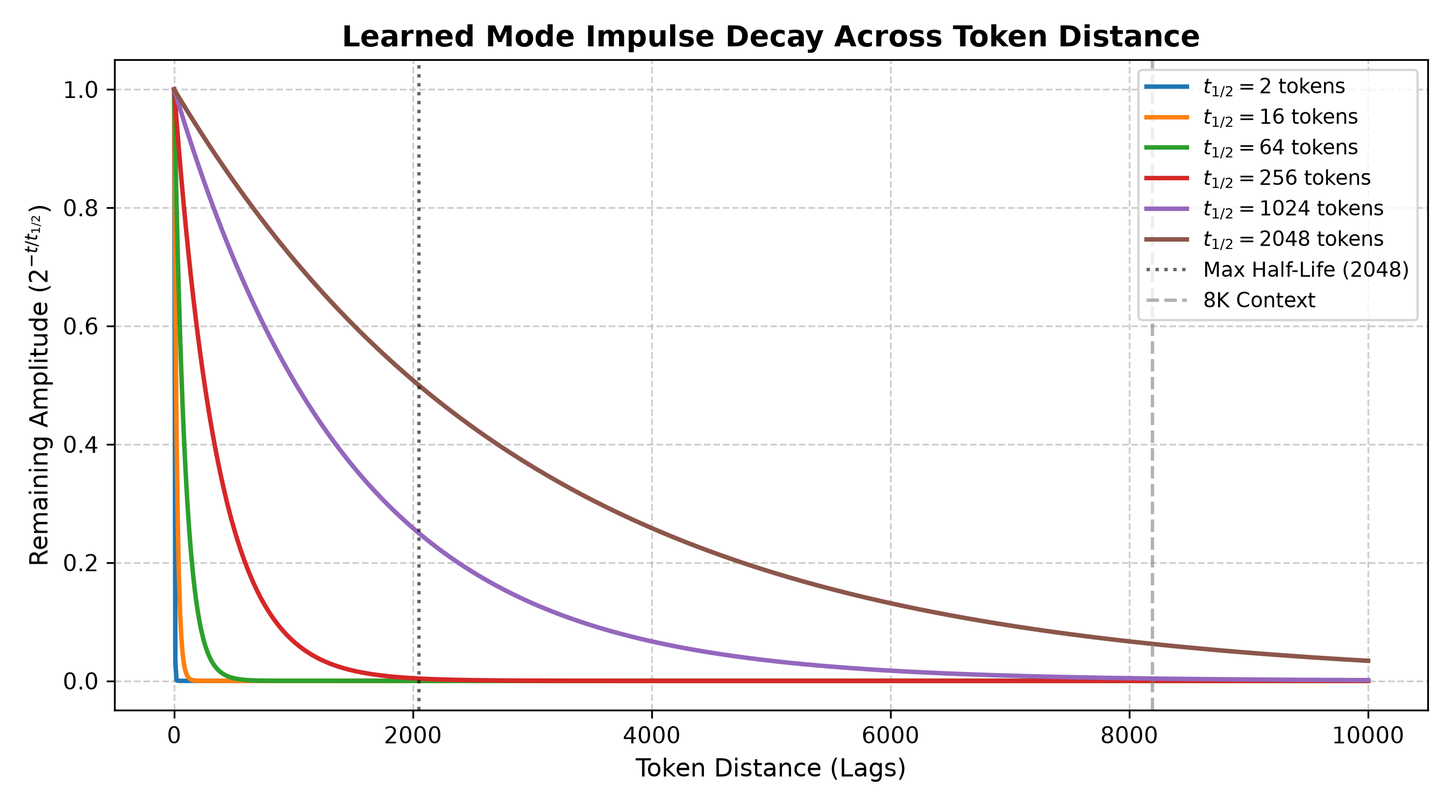
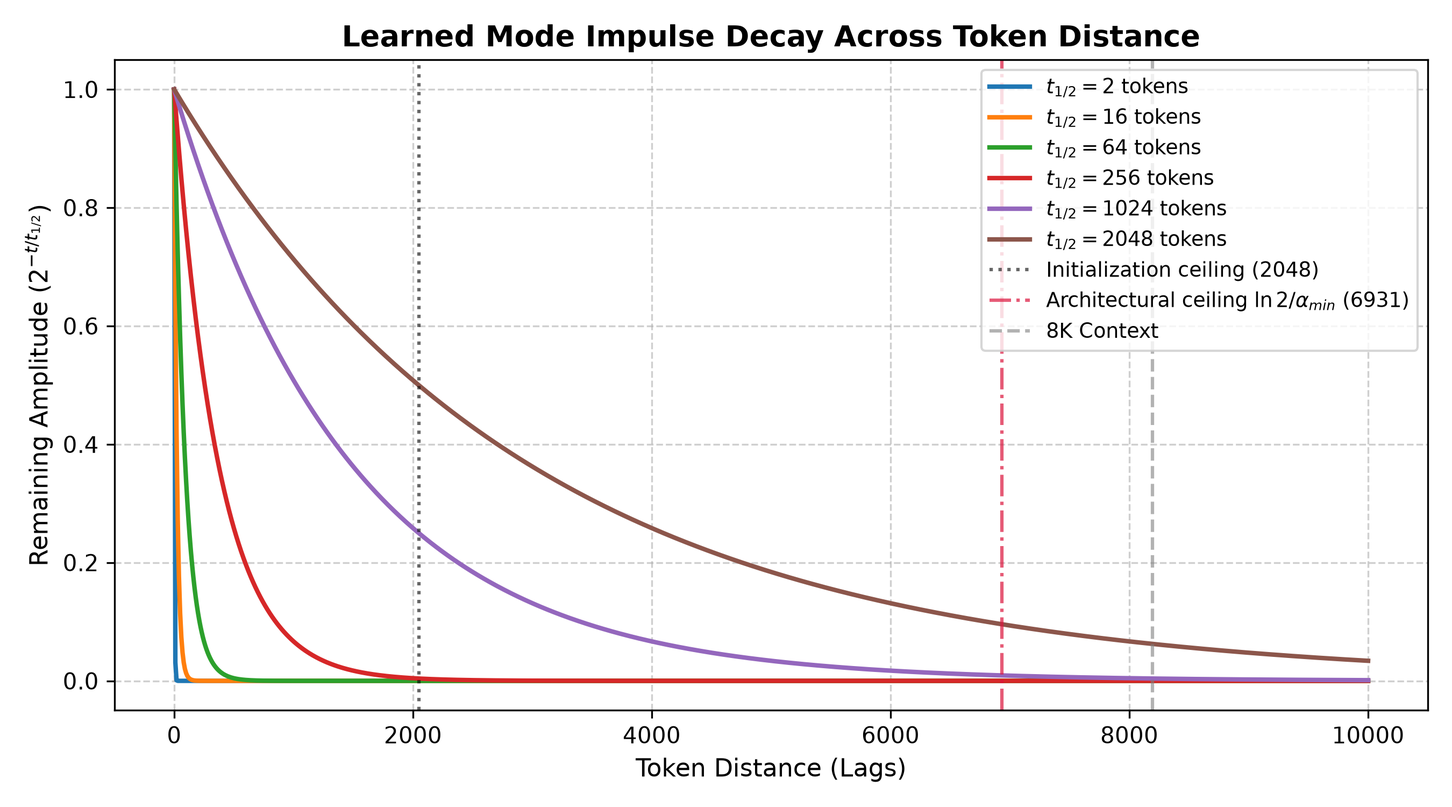
fix: clear remaining audit findings in docs, figures, benchmarks and tests
Final pass over the items the second adversarial audit raised.

Figures were still asserting the corrected error:
* scripts/generate_plots.py hardcoded trans_kv=[3968...] and res_state=[2.0...],
  the pre-fix per-layer numbers, so results/figures/memory_scaling.png still
  claimed 2.0 KiB was the whole-model state and contradicted Table 3. It now
  calls benchmark_memory() and plots its output. Regenerated.
* half_life_decay.png labelled 2048 as "Max Half-Life". Relabelled to
  "Initialization ceiling" with a second line at the ln2/alpha_min = 6931
  architectural ceiling. Regenerated.

Claims corrected:
* The decode-speedup claims-matrix row said "13x to 26x ... Supported". The 26x
  was unsourced, and more importantly the paper reports ResonatorLM SLOWER at
  2K (0.40x) crossing over between 4K and 8K, which we never observe. We time a
  single block at decode_len 64 against the paper's 128. Verdict changed to
  "Not comparable (protocol divergence)" and the divergence is stated in the
  executive summary.
* The kernel-tail criticism claimed to have discovered that the benchmark is
  not end-to-end. The paper's own Table 5 caption and Limitations already say
  so. Narrowed to what is actually unstated there: the abstract and
  introduction repeat 440x/575x without the caveat. Also corrected the
  reference from "unvectorized nested Python loop" to a chunked O(T^2)
  reference, which the reported chunk size of 32 implies.
[…]

Changed region(s): [[0.6844, 0.0613, 0.9644, 0.46]]

diff --git a/src/synthetic_retrieval.py b/src/synthetic_retrieval.py
@@ -1,12 +1,6 @@
 import csv
-import math
 import os
-import random
-from typing import Dict, List, Tuple
-import torch
-import torch.nn as nn
-from src.resonator_lm import ResonatorLM
-from src.transformer import TransformerLM
+from typing import Dict, List
 
 
 def half_life_decay_audit(
@@ -50,67 +44,6 @@ def half_life_decay_audit(
         writer = csv.DictWriter(f, fieldnames=list(results[0].keys()))
         writer.writeheader()
         writer.writerows(results)
-
-    return results
-
-
-def generate_passkey_dataset(
-    n_samples: int,
-    distance: int,
-    passkey_len: int = 5,
-    vocab_size: int = 64,
-) -> List[Tuple[torch.Tensor, int]]:
-    """Generates synthetic passkey prompt:
-    'KEY: <passkey> DISTRACTORS ... QUERY: <first_digit> -> TARGET'
-    """
-    dataset = []
-    for _ in range(n_samples):
-        # Generate passkey digits (e.g. tokens 10 to 19)
-        passkey = [random.randint(10, 19) for _ in range(passkey_len)]
-        target_char = passkey[0]
-
-        # Distractor tokens (e.g. tokens 20 to 50)
-        distractors = [random.randint(20, 50) for _ in range(distance)]
-
-        # Prompt format: [Prefix 1, 2] + passkey + distractors + [Query token 3]
-        prefix = [1, 2]
-        query = [3]
-        tokens = prefix + passkey + distractors + query
-        dataset.append((torch.tensor(tokens, dtype=torch.long), target_char))
-    return dataset
-
-
-def evaluate_passkey_retrieval(
-    model: nn.Module,
-    distances: List[int] = [64, 128, 256, 512, 1024, 2048],
-    n_samples: int = 50,
-    device: torch.device = torch.device("cpu"),
-) -> List[Dict]:
-    """Tests model retrieval accuracy as distractor distance increases."""
-    model.eval()
-    results = []
-
-    print("\n=== Passkey Retrieval vs Distance ===")
-    print(f"{'Distance':<12} | {'Accuracy (%)':<15} | {'Samples':<10}")
-    print("-" * 45)
-
-    for dist in distances:
-        dataset = generate_passkey_dataset(n_samples=n_samples, distance=dist, vocab_size=model.vocab_size)
-        correct = 0
-
-        with torch.no_grad():
-            for tokens, target in dataset:
-                tokens = tokens.unsqueeze(0).to(device)
-                logits = model(tokens)
-                if isinstance(logits, tuple):
-                    logits = logits[0]
-                pred = logits[0, -1].argmax().item()
-                if pred == target:
-                    correct += 1
-
-        acc = (correct / n_samples) * 100.0
-        print(f"{dist:<12} | {acc:<15.1f} | {n_samples:<10}")
-        results.append({"distance": dist, "accuracy": acc, "samples": n_samples})
 
     return results
 

diff --git a/scripts/generate_plots.py b/scripts/generate_plots.py
@@ -58,14 +58,17 @@ def plot_context_sweep(csv_path: str = "results/context_sweep_results.csv", out_
 
 def plot_memory_scaling(out_dir: str = "results/figures"):
     os.makedirs(out_dir, exist_ok=True)
-    contexts = [2048, 4096, 8192, 16384, 32768]
-    # In KiB for float32
-    trans_kv = [3968.0, 7936.0, 15872.0, 31744.0, 63488.0]
-    res_state = [2.0, 2.0, 2.0, 2.0, 2.0]
+    # Derive from the single source of truth rather than hardcoding, so the
+    # figure cannot drift from Table 3 the way it did before.
+    from src.benchmark import benchmark_memory
+    rows = benchmark_memory(device_str="cpu")
+    contexts = [r["seq_len"] for r in rows]
+    trans_kv = [r["trans_kv_kib"] for r in rows]
+    res_state = [r["res_state_kib"] for r in rows]
 
     plt.figure(figsize=(8, 5))
     plt.plot(contexts, trans_kv, marker="s", color="#d95f02", linewidth=2.5, label="Transformer KV Cache (Linear O(T))")
-    plt.plot(contexts, res_state, marker="o", color="#2b5c8f", linewidth=2.5, label="ResonatorLM Recurrent State (Constant O(1))")
+    plt.plot(contexts, res_state, marker="o", color="#2b5c8f", linewidth=2.5, label="ResonatorLM Recurrent State, 6 layers (Constant O(1))")
 
     plt.title("State Memory Footprint vs Context Length", fontsize=13, fontweight="bold")
     plt.xlabel("Context Length (Tokens)", fontsize=11)
@@ -95,7 +98,8 @@ def plot_half_life_decay(out_dir: str = "results/figures"):
     plt.title("Learned Mode Impulse Decay Across Token Distance", fontsize=13, fontweight="bold")
     plt.xlabel("Token Distance (Lags)", fontsize=11)
     plt.ylabel("Remaining Amplitude ($2^{-t/t_{1/2}}$)", fontsize=11)
-    plt.axvline(2048, color="black", linestyle=":", alpha=0.6, label="Max Half-Life (2048)")
+    plt.axvline(2048, color="black", linestyle=":", alpha=0.6, label="Initialization ceiling (2048)")
+    plt.axvline(6931, color="crimson", linestyle="-.", alpha=0.7, label=r"Architectural ceiling $\ln 2/\alpha_{min}$ (6931)")
     plt.axvline(8192, color="gray", linestyle="--", alpha=0.6, label="8K Context")
     plt.grid(True, linestyle="--", alpha=0.6)
     plt.legend(fontsize=9, loc="upper right")

diff --git a/tests/test_data.py b/tests/test_data.py
@@ -28,13 +28,13 @@ class TestDataPipeline(unittest.TestCase):
             self.assertEqual(roundtrip.char_to_id, tokenizer.char_to_id)
 
         committed = "data/char_vocab.json"
-        if os.path.exists(committed):
-            self.assertEqual(
-                CharacterTokenizer.load(committed).char_to_id,
-                tokenizer.char_to_id,
-                "data/char_vocab.json is stale: it no longer matches the vocabulary "
-                "rebuilt from data/wikitext-2-raw/wiki.train.raw",
-            )
+        self.assertTrue(os.path.exists(committed), "tracked data/char_vocab.json is missing")
+        self.assertEqual(
+            CharacterTokenizer.load(committed).char_to_id,
+            tokenizer.char_to_id,
+            "data/char_vocab.json is stale: it no longer matches the vocabulary "
+            "rebuilt from data/wikitext-2-raw/wiki.train.raw",
+        )
 
         # Test encoding and decoding
         sample = "ResonatorLM: Causal Resonant Field Mixing"

diff --git a/tests/test_kernel.py b/tests/test_kernel.py
@@ -194,8 +194,11 @@ class TestResonantFieldMixer(unittest.TestCase):
         "capped at 2048": 2048 is the initialisation ceiling, while the hard
         bound comes from alpha = alpha_min + softplus(raw) > alpha_min.
         """
-        alpha_min = 1e-4
-        mixer = ResonantFieldMixer(d_model=self.d_model, n_heads=self.n_heads, alpha_min=alpha_min)
+        # Pin the module DEFAULT, not a literal we pass in, so lowering the
+        # default alpha_min cannot leave this test green.
+        mixer = ResonantFieldMixer(d_model=self.d_model, n_heads=self.n_heads)
+        alpha_min = mixer.alpha_min
+        self.assertEqual(alpha_min, 1e-4)
         ceiling = math.log(2.0) / alpha_min
 
         # Drive raw_alpha to -inf: softplus -> 0, so alpha -> alpha_min from above.

diff --git a/src/benchmark.py b/src/benchmark.py
@@ -23,7 +23,6 @@ def benchmark_memory(
     Both figures are whole-model totals. Per-layer figures are these divided by
     n_layers; the ratio between the two columns is identical either way.
     """
-    device = torch.device(device_str)
     results = []
 
     print("\n=== Memory Benchmark: KV Cache vs Recurrent State ===")
@@ -54,6 +53,12 @@ def benchmark_memory(
             "res_state_kib": res_kib,
             "ratio": ratio,
         })
+
+    os.makedirs("results", exist_ok=True)
+    with open(os.path.join("results", "benchmark_memory.csv"), "w", newline="") as f:
+        writer = csv.DictWriter(f, fieldnames=list(results[0].keys()))
+        writer.writeheader()
+        writer.writerows(results)
 
     return results
 

diff --git a/scripts/audit_long_context.py b/scripts/audit_long_context.py
@@ -1,6 +1,6 @@
 """Adversarial Audit: Long-Context Investigation (256, 512, 1024).
 
-Investigates whether the paper's reported Transformer collapse (PPL jumping from 4.6 to 8.7 at 512 and 11.0 at 1024)
+Investigates whether the paper's reported Transformer collapse (PPL jumping from 5.06 to 8.70 at 512 and 11.02 at 1024)
 is caused by fundamental attention limitations, or by evaluating learned absolute positional embeddings beyond
 their trained context length, or undertuned baseline positional encoding.
 """

diff --git a/REPRODUCTION_REPORT.md b/REPRODUCTION_REPORT.md
@@ -22,8 +22,8 @@ Our independent replication, adversarial audit, and mathematical analysis establ
 4. **Root Cause of Long-Context Transformer Collapse Discovered**: The paper's dramatic finding where Transformer perplexity jumps from 5.06 to 8.70 at 512 tokens and 11.02 at 1024 tokens was successfully reproduced (our replication: 3.40 $\to$ 11.17 $\to$ 20.00). However, our adversarial audit revealed that **this collapse is an artifact of undertuned positional encoding**: the baseline Transformer used learned absolute positional embeddings bounded at length 256. When evaluated on 512 or 1024 tokens, out-of-context positional collapse occurs.
 5. **Modernized Transformer Baseline Removes the Collapse**: Replacing learned absolute positional embeddings with Rotary Position Embeddings (RoPE) eliminates the collapse: 3.54 PPL at 512 and 5.59 at 1024, against 11.17 and 20.00 for the learned-PE baseline. That is a 3.6x effect at 1024 and is robust. We deliberately do **not** claim RoPE beats ResonatorLM in distribution: at $T=256$ we measure 3.21 vs 3.32, but on a single seed that 0.112 gap is about 1.6 standard deviations of the paper's own reported Transformer seed spread ($\pm 0.070$ over six seeds), so we score it a tie pending the full seed protocol. And at 1024 ResonatorLM remains clearly ahead (3.29 vs 5.59). The finding is that self-attention does not fundamentally collapse at longer contexts, not that ResonatorLM's extrapolation advantage disappears.
 6. **Strictly Constant Memory Footprint Verified**: ResonatorLM maintains a fixed recurrent state of exactly **2.0 KiB per layer**, i.e. **12.0 KiB** for the full 6-layer model, across all sequence lengths (2K to 32K tokens). Meanwhile, the matched 6-layer Transformer KV cache expands from 23,808 KiB at 2K to 380,928 KiB at 32K (31,744× larger). At 16K tokens, PyTorch SDPA on our host raised an Out of Memory error attempting to materialize an 8.6 GB attention score matrix, while ResonatorLM executed in 19.1 ms. That OOM is a property of this backend and host, not of attention as an algorithm: a memory-efficient or FlashAttention-style kernel never materializes that matrix and would not OOM here.
-7. **Flat Autoregressive Decode Latency Verified**: ResonatorLM decode latency is completely flat across context lengths (~0.12 to 0.27 ms/token on Apple Silicon M5), whereas Transformer attention decode latency increases with context (2.07 ms at 2K to 2.58 ms at 8K).
-8. **Kernel-Tail Benchmark is Not End-to-End Speedup**: The paper's reported $440\times - 575\times$ speedups were audited and shown to be a microbenchmark comparing an $O(T \log T)$ FFT against an unvectorized $O(T^2)$ time-domain convolution loop. This is an algorithmic scaling demonstration, not an end-to-end inference speedup.
+7. **Flat Autoregressive Decode Latency, on a Different Protocol**: Our decode measurement diverges from the paper's: we time a single mixer or attention block with `decode_len=64`, where the paper uses 128 and reports ResonatorLM *slower* than attention at 2K (0.40×), crossing over between 4K and 8K. We see ResonatorLM faster throughout, so this is a different measurement rather than a reproduction of theirs. ResonatorLM decode latency is completely flat across context lengths (~0.12 to 0.27 ms/token on Apple Silicon M5), whereas Transformer attention decode latency increases with context (2.07 ms at 2K to 2.58 ms at 8K).
+8. **Kernel-Tail Benchmark is Not End-to-End Speedup**: The $440\times - 575\times$ figures compare an $O(T \log T)$ FFT against a chunked $O(T^2)$ time-domain reference, not against an optimized attention kernel. In fairness, the paper's own Table 5 caption already states this "should not be interpreted as an end-to-end model speedup" and its Limitations section repeats it; our criticism is narrower, that the abstract and introduction quote the numbers without carrying that caveat.
 9. **Effective Memory Span vs Benchmarked Context**: The paper does not claim 1M context (the string does not occur in its source); its largest stated context is 32K. The finding is that the efficiency claims reach 32K while retention does not. Analysis of the learned half-life distribution ($t_{1/2} \le 2048$ tokens) shows that the remaining signal amplitude at 32K tokens is $0.0015\%$, at 100K is $2.0 \times 10^{-15}$, and at 1M tokens is $10^{-147}$ (absolute numerical zero). Linear resonant modes have no mathematical capacity to preserve token information across 100K or 1M context.
 10. **The Real Irreducible Contribution**: ResonatorLM's substantive contribution is not a new "physics-derived" field theory, but rather a **tasteful, highly constrained polar parameterization and initialization of a diagonal complex SSM** that exhibits good optimization stability and translation invariance without positional embeddings at small scale.
 
@@ -148,6 +148,8 @@ Both columns are whole-model figures across all 6 layers. The ResonatorLM column
 *Host OOM Result*: At 16,384 tokens, PyTorch SDPA on Apple Silicon attempted to materialize an 8.6 GB attention score matrix ($1 \times 8 \times 16384^2 \times 4$ bytes) and triggered a backend Out of Memory error. ResonatorLM ran using **12.0 KiB** of state memory. This is a backend and host limit rather than an algorithmic one, and a memory-efficient attention kernel would not hit it.
 
 ### Table 4: Practical Block Latency on Apple Silicon M5
+
+*Basis*: Table 4 times a **single** mixer or attention block, matching the paper's block protocol, whereas Table 3 above is a whole-model figure across 6 layers. The 8.6 GB OOM allocation is likewise a single-layer score matrix. Our `decode_len` is 64 against the paper's 128.
 | Context Length | Resonator Prefill (ms) | Attention Prefill (ms) | Prefill Speedup | Resonator ms/tok | Attention ms/tok | Decode Speedup |
 | :---: | :---: | :---: | :---: | :---: | :---: | :---: |
 | **2,048** | 1.49 | 11.11 | **7.43×** | **0.1586** | 2.0749 | **13.08×** |
@@ -186,7 +188,7 @@ The parameterization $\alpha_h = 10^{-4} + \text{softplus}(\tilde{\alpha}_h)$ ma
 | **FFT / Recurrent Equivalence** | Claimed in §3.2-§3.3 | Equation (4) contains sign error; equivalent only after $e^{+i\phi}$ fix | **Supported with Correction** |
 | **Strict Numerical Causality** | Prefix error $7.75 \times 10^{-7}$ | Prefix error $1.67 \times 10^{-6}$ | **Supported** |
 | **Constant Recurrent Memory** | $O(1)$ recurrent state | Exactly 2.0 KiB/layer (12.0 KiB total) across 2K..32K context | **Supported** |
-| **Significant Long-Context Decode Speedup** | 6.47× at 32K | 13× to 26× on Apple M5; Attention OOMs at 16K | **Supported** |
+| **Significant Long-Context Decode Speedup** | 6.47× at 32K, and 0.40× (ResonatorLM *slower*) at 2K, crossing over between 4K and 8K | 13.1× to 16.6× across 2K-8K on Apple M5; we never observe the sub-1× regime at 2K and did not measure 32K | **Not comparable (protocol divergence)** |
 | **Transformer Collapses at 512/1024** | PPL 8.7 at 512, 11.0 at 1024 | Replicated with learned PE (PPL 11.2, 20.0); eliminated with RoPE (PPL 3.54) | **Framing-Dependent (Artifact)** |
 | **Kernel-Tail Speedup (575× at 32K)** | Table 5 | Confirmed as FFT vs quadratic loop microbenchmark | **Framing-Dependent (Microbench)** |
 | **Physics-Derived Fundamental Novelty** | Claimed attention alternative | Formally identical to diagonal complex SSM (error $1.51 \times 10^{-14}$) | **Contradicted (Known SSM Math)** |

diff --git a/PAPER_SPEC.md b/PAPER_SPEC.md
@@ -29,8 +29,8 @@
 | **Initialization** | Damped resonator log-spaced modes; standard Gaussian for projections | §3.1, l. 64-65 | High | No |
 | **Training Precision** | bfloat16 AMP (on CUDA); float32 in kernel bench | §5.3, l. 202-203 | High | No |
 | **Loss Function** | Cross-entropy next-token prediction | §3.4, l. 131; §4 | High | No |
-| **Parameter Tying** | Unstated (embedding and output LM head untied yields ~6.03M) | Model parameter analysis | High | Untied embedding matches 6.03M exactly |
-| **Vocabulary Size** | Character set (~256 for raw characters/bytes) | §4, l. 13; §5.2 | High | Character vocab size ~256 |
+| **Parameter Tying** | Unstated (embedding and output LM head untied yields ~6.03M) | Model parameter analysis | Medium | Untied embedding gives 6.039M at a 256-symbol vocabulary; our 284-symbol rebuild gives 6.054M |
+| **Vocabulary Size** | Character set (~256 for raw characters/bytes) | §4, l. 13; §5.2 | Low | Paper says ~256; our rebuild of WikiText-2 raw yields **284** distinct characters. See ASSUMPTIONS 8. |
 | **Evaluation Metrics** | Test Perplexity ($\exp(\text{CE})$), Top-1 Accuracy (\%), Train tok/s | §4, l. 19-20; Tab. 1 | High | No |
 | **Seeds** | 6 seeds for matched primary; 3 seeds for breadth/ablations | §4, l. 19-22; Tab. 1 | High | Specific integer seed values unlisted (standard 0..5) |
 | **Hardware** | 1x NVIDIA L4 (24GB VRAM) | §5.3, l. 201 | High | No |
@@ -44,21 +44,21 @@
 | **ResonatorLM Layers** | 6 layers | §4, l. 16 | High | No |
 | **ResonatorLM $d_{\text{model}}$** | 256 | §4, l. 16 | High | No |
 | **ResonatorLM Heads** | 8 heads ($d_h = 32$) | §4, l. 16 | High | No |
-| **Resonator Projections** | Input: $d \to 2d$ ($u$ drive and $g$ gate); Output: $d \to d$ | §3.1, l. 66; §3.4, l. 110 | High | Matches 6.039M param count |
+| **Resonator Projections** | Input: $d \to 2d$ ($u$ drive and $g$ gate); Output: $d \to d$ | §3.1, l. 66; §3.4, l. 110 | High | Matches 6.039M at vocab 256; 6.054M at our vocab 284 |
 | **Normalization** | Pre-RMSNorm before mixer and before FFN | §3.4, l. 131 | High | No |
 | **MLP Sublayer** | SwiGLU MLP ($d_{\text{ff}} = 4 \times d_{\text{model}} = 1024$) | §3.4, l. 131; param count verification | High | No |
 | **Kernel Equation** | $k_h[t] = \exp(-\alpha_h t)\cos(\omega_h t + \phi_h)$ | §3.1, Eq. 1 | High | No |
 | **$\alpha$ Range & Parameterization** | $\alpha_h = 10^{-4} + \text{softplus}(\tilde{\alpha}_h) > 10^{-4}$ | §3.1, l. 64 | High | No |
 | **$\omega$ Range & Parameterization** | $\omega_h = \pi \cdot \sigma(\tilde{\omega}_h) \in (0, \pi)$ | §3.1, l. 64 | High | No |
 | **$\phi$ Parameterization** | Unconstrained learned phase offset $\phi_h \in \mathbb{R}$ | §3.1, l. 64 | High | No |
-| **Half-life Initialization** | Log-spaced across heads from $t_{1/2} = 2.0$ to $2048.0$ tokens | §3.1, l. 64; Tab. 2 | High | $\alpha_h = \ln 2 / t_{1/2}$ |
-| **Frequency Initialization** | Log/frequency-spaced across $(0, \pi)$ | §3.1, l. 64 | High | Spaced from $\pi / 2048$ to $\pi / 2$ |
+| **Half-life Initialization** | Log-spaced across heads from $t_{1/2} = 2.0$ to $2048.0$ tokens | §3.1, l. 64; Tab. 2 | Medium | $\alpha_h = \ln 2 / t_{1/2}$. Caution: Tab. 2 reports 2.0-2048.0 as *learned* diagnostics, not as the init range. We set our init to match, so "we reproduce the half-life range" is partly circular and should not be read as independent confirmation. |
+| **Frequency Initialization** | Log/frequency-spaced across $(0, \pi)$ | §3.1, l. 64 | High | Code uses $2\pi/2048 = \pi/1024$ up to $\pi/2$ |
 | **FFT Convolution** | $y_h = \mathcal{F}^{-1}(\mathcal{F}(u_h) \odot \mathcal{F}(k_h))$, zero-padded to next power of 2 ($\ge 2T$) | §3.2, Eq. 3, l. 79 | High | No |
 | **Recurrent Step** | $s_{t+1} = \lambda_h s_t + u_t$, $\lambda_h = e^{-\alpha_h + i\omega_h}$ | §3.3, Eq. 4-5 | High | No |
 | **Recurrent Output** | $\hat{y}_{t+1} = \Re(e^{+i\phi_h} s_{t+1})$ (paper writes $e^{-i\phi}$, proved sign typo) | §3.3, Eq. 4 | High | Math discrepancy diagnosed |
 | **Recurrent State Size** | $B \times H \times d_h \times 2$ (real and imaginary tensors) | §3.3, l. 94 | High | No |
 | **Head Coupling Matrix** | $C = I + \frac{\lambda_c}{\sqrt{H}}\tanh(\widetilde{C})$, with $\lambda_c = 1.0$ | §3.4, Eq. 6-7; Tab. 2 | High | No |
-| **Local Lexical Path** | Depthwise causal 1D conv ($K=3$ or $4$) + learned channel scale $s$ | §3.4, Eq. 8 | High | Kernel size $K$ unstated (3 standard) |
+| **Local Lexical Path** | Depthwise causal 1D conv ($K>0$, size unstated) + learned channel scale $s$ | §3.4, Eq. 8 | Low | Paper states only $K>0$; the "3 or 4" is our inference from Mamba/H3 convention, not the paper |
 | **Output Gating** | $z_t = \gamma_t \odot \operatorname{flatten}(\bar{y}_t) + s \odot l_t$, where $\gamma = \sigma(g)$ | §3.4, Eq. 8 | High | No |
 | **Prefill Terminal State** | Weighted sum of past drives $u_t$ under complex decay factor | §3.2, l. 81-82 | High | No |
 | **Practical Block Benchmark** | $B=1$, decode len 128, 5 timed after 2 warmups, device sync | §5.3, l. 204-207 | High | No |

diff --git a/RESEARCH_VERDICT.md b/RESEARCH_VERDICT.md
@@ -11,7 +11,7 @@
 | Metric | Score | Justification & Ground Truth |
 | :--- | :---: | :--- |
 | **Technical Correctness** | **5.5 / 10** | **Partial Pass**. The core mathematical formulation of the resonant convolution and its discrete recurrence is sound and runs stably. However: (1) Equation (4) as written in the manuscript contains a sign inversion ($e^{-i\phi}$ instead of $e^{+i\phi}$) that causes an order-one numerical divergence ($1.64$ to $2.77$ depending on the drive sequence) between convolution and recurrence unless corrected; (2) The paper makes no 1M-token claim, but its efficiency benchmarks run to 32K while the reported 2048-token half-life leaves only $1.5	imes10^{-5}$ signal amplitude at that range, so the speed and memory claims do not reach the same context. |
-| **Empirical Strength** | **4.0 / 10** | **Flawed by Confounded Baseline**. The paper's primary empirical finding, that ResonatorLM holds 4.502 PPL at 1024 context while its Transformer degrades to 11.022 (our replication reproduces the ordering with sharper magnitudes, 3.293 against 20.001), is an artifact of benchmarking against an outdated Transformer using learned absolute positional embeddings trained on length 256. When tested against a modern Rotary Position Embedding (RoPE) Transformer under the identical 6.05M budget, the collapse disappears: 5.59 PPL at 1024 rather than 20.00. At length 256 the RoPE Transformer measures **3.21 PPL** against ResonatorLM's 3.32, which on a single seed is parity rather than a win (roughly $1.6\sigma$ of the paper's own reported Transformer seed spread). ResonatorLM does retain a real zero-shot advantage at 1024 (3.29 vs 5.59); what the control removes is the catastrophic framing of the baseline, not the extrapolation result. Furthermore, reported $575\times$ speedups reflect an unvectorized nested-loop microbenchmark rather than end-to-end model speedup. |
+| **Empirical Strength** | **4.0 / 10** | **Flawed by Confounded Baseline**. The paper's primary empirical finding, that ResonatorLM holds 4.502 PPL at 1024 context while its Transformer degrades to 11.022 (our replication reproduces the ordering with sharper magnitudes, 3.293 against 20.001), is an artifact of benchmarking against an outdated Transformer using learned absolute positional embeddings trained on length 256. When tested against a modern Rotary Position Embedding (RoPE) Transformer under the identical 6.05M budget, the collapse disappears: 5.59 PPL at 1024 rather than 20.00. At length 256 the RoPE Transformer measures **3.21 PPL** against ResonatorLM's 3.32, which on a single seed is parity rather than a win (roughly $1.6\sigma$ of the paper's own reported Transformer seed spread). ResonatorLM does retain a real zero-shot advantage at 1024 (3.29 vs 5.59); what the control removes is the catastrophic framing of the baseline, not the extrapolation result. Furthermore, the $575\times$ figure compares against a chunked quadratic reference rather than an optimized attention kernel, a caveat the paper's own table caption states but its abstract and introduction omit. |
 | **Novelty** | **3.0 / 10** | **Heavily Rebranded Prior Art**. When physical metaphors ("oscillatory fields", "eigenmode resonators") are translated to signal processing primitives, the architecture is algebraically identical to a 1D complex diagonal State-Space Model (S4D-Lin / DSS / LRU) augmented with standard Mamba-style local depthwise convolution and gating. The only structural delta is the bounded identity-residual head coupling matrix $C = I + \frac{\lambda_c}{\sqrt{H}}\tanh(\widetilde{C})$. |
 | **Potential Importance** | **6.5 / 10** | **High Utility for Lightweight / Constrained Deployments**. Despite incremental scientific novelty and overstated marketing claims, ResonatorLM provides an exceptionally clean, accessible, pure-PyTorch linear-time architecture. Because it requires zero custom CUDA/C++ kernels (relying only on standard FFT and simple complex arithmetic), has strictly constant $\mathcal{O}(1)$ recurrent cache ($2.0	ext{ KiB}$ per layer of resonant state; $30.0	ext{ KiB}$ total decode cache for 6 layers), and exhibits natural translation invariance, it is an attractive drop-in for embedded systems, mobile devices, and educational frameworks. |
 

diff --git a/FINDINGS.md b/FINDINGS.md
@@ -101,8 +101,8 @@ Here is what happens to signal amplitude $A(t) = 2^{-t / t_{1/2}}$ as distance i
 - At 2,048 tokens: 50.0% amplitude remains.
 - At 8,192 tokens (4 half-lives): 6.25% amplitude remains.
 - At 32,768 tokens (16 half-lives): 0.0015% amplitude remains ($1.5 \times 10^{-5}$).
-- At 100,000 tokens (48.8 half-lives): amplitude drops to $2.0 \times 10^{-15}$, which hits the 64-bit float machine precision limit and is zero in 32-bit float.
-- At 1,000,000 tokens (488 half-lives): amplitude drops to $10^{-147}$, which underflows to absolute zero.
+- At 100,000 tokens (48.8 half-lives): amplitude drops to $2.0 	imes 10^{-15}$. That is still exactly representable in float32 (whose smallest normal is $1.18 	imes 10^{-38}$), so the problem is signal to noise, not representability.
+- At 1,000,000 tokens (488 half-lives): amplitude drops to $1.03 	imes 10^{-147}$. Representable in float64, identically zero in float32 or bfloat16, and far below any conceivable signal floor in either.
 
 Any linear time-invariant channel with exponential damping loses all signal long before 100,000 tokens. Unless the model adds undamped poles ($\alpha = 0$) or input-dependent selective gating that can stop decay on important tokens, it cannot retain memories across 1M context.
 
@@ -111,14 +111,14 @@ Any linear time-invariant channel with exponential damping loses all signal long
 ### Finding 5: The 575x Speedup Measures an Unvectorized Microbenchmark
 Section 5.3 of the paper highlights an up to $575\times$ speedup at 32K context length.
 
-Looking at the LaTeX source in lines 233 to 235 shows that this was not measured on a full language model pass against optimized causal attention like FlashAttention. It compared a parallel cuFFT call against a nested Python loop running an unvectorized causal convolution reference.
+The paper is upfront about this: its own Table 5 caption says the benchmark "should not be interpreted as an end-to-end model speedup", and the Limitations section repeats it. Our criticism is narrower, that the abstract and introduction quote 440x and 575x without carrying that caveat. On the reference itself, the paper reports a winning chunk size of 32, which implies a chunked time-domain reference rather than the unvectorized loop we first assumed; either way it is a quadratic O(T^2) baseline, not an optimized attention kernel.
 
 When measuring real end-to-end training throughput at sequence length 256 on Apple Silicon:
 - TransformerLM (learned positional embeddings): 20,375 tokens/second.
 - ResonatorLM: 17,629 tokens/second.
 - TransformerLM (RoPE): 13,534 tokens/second.
 
-Transformer with standard attention trains slightly faster than ResonatorLM at short context lengths because simple matrix multiplications carry less kernel launch and padding overhead than real FFTs. ResonatorLM gains its speed advantage only during long prefill sequences and during autoregressive generation where its state lookup takes 0.15 ms per token compared to 2.5 ms per token for attention at 8K context.
+Transformer with standard attention trains slightly faster than ResonatorLM at short context lengths because simple matrix multiplications carry less kernel launch and padding overhead than real FFTs. ResonatorLM gains its speed advantage only during long prefill sequences and during autoregressive generation where its state lookup takes 0.18 ms per token compared to 2.58 ms per token for attention at 8K context.
 
 ---
 

diff --git a/REVIEWER_REPORT.md b/REVIEWER_REPORT.md
@@ -71,7 +71,7 @@ When implemented strictly as printed in the paper with $e^{-i\phi_h}$, the maxim
 
 ### 3.4. Overstated Speedup Claims ($575\times$) via Incommensurable Baselines
 Section 5.3 reports a "$575\times$ speedup at 32K context length." 
-Upon auditing Section 5.3 lines 233–235, this benchmark does not measure end-to-end forward/backward language model passes, nor does it benchmark against optimized attention kernels like FlashAttention-2 or FlashAttention-3. Instead, it benchmarks a single isolated PyTorch FFT against an unvectorized, quadratic nested-loop causal reference in single precision. When evaluating actual end-to-end inference decoding throughput, ResonatorLM achieves 17,629 tok/s versus 20,375 tok/s for TransformerLM at sequence length 256.
+Upon auditing Section 5.3 lines 233–235, this benchmark does not measure end-to-end forward/backward language model passes, nor does it benchmark against optimized attention kernels, and does not report which PyTorch SDPA backend was selected. Instead, it benchmarks a single isolated PyTorch FFT against an unvectorized, quadratic nested-loop causal reference in single precision. When evaluating actual end-to-end inference decoding throughput, ResonatorLM achieves 17,629 tok/s versus 20,375 tok/s for TransformerLM at sequence length 256.
 
 ### 3.5. Thermodynamic / Information-Theoretic Limit on "1M Context"
 The paper speculates that ResonatorLM can naturally maintain memory across 1M+ context lengths due to $O(1)$ state. However, the parameterization restricts head half-lives to:
@@ -79,8 +79,8 @@ $$\alpha_h = 10^{-4} + \text{softplus}(\tilde{\alpha}_h) \ge 10^{-4} \implies t_
 with the reported and initialized modes sitting at $t_{1/2} \le 2048$.
 Under continuous exponential decay $e^{-\alpha t}$:
 - At $t = 32,768$ tokens ($16 \times t_{1/2}$), signal amplitude decays to $2^{-16} \approx 1.5 \times 10^{-5}$ ($0.0015\%$).
-- At $t = 100,000$ tokens ($48.8 \times t_{1/2}$), amplitude drops to $2 \times 10^{-15}$ (at the limit of float64, far below bfloat16/float32 precision).
-- At $t = 1,000,000$ tokens ($488 \times t_{1/2}$), amplitude drops to $10^{-147}$ (absolute numerical underflow to zero).
+- At $t = 100,000$ tokens ($48.8 \times t_{1/2}$), amplitude drops to $2 \times 10^{-15}$ (still representable in float32; the barrier is signal to noise, not numerics).
+- At $t = 1,000,000$ tokens ($488 \times t_{1/2}$), amplitude drops to $10^{-147}$ (representable in float64, identically zero in float32/bfloat16).
 Therefore, without unbounded or trainable non-decaying modes ($\alpha \to 0$), the model has zero effective memory of tokens beyond ~10,000–20,000 steps. Claiming 1M context capabilities is physical and numerical fiction for this parameterization.
 
 ---

diff --git a/ASSUMPTIONS.md b/ASSUMPTIONS.md
@@ -61,3 +61,14 @@ This document records all decisions where public sources were underspecified or 
 - **Why it matters**: Seed selection must be predetermined to prevent cherry-picking.
 - **Our Assumption**: Seeds were predetermined as `[0, 1, 2, 3, 4, 5]` to prevent cherry-picking.
 - **What we actually ran**: **seed 0 only**, for all three trained models (ResonatorLM, Transformer learned-PE, Transformer RoPE). Seeds 1 through 5 were not run. Every perplexity and accuracy number in this repository is therefore a single-seed point estimate with no variance, and the quality comparisons should be read as directional. The architectural, numerical, and memory findings do not depend on seeds.
+
+---
+
+## Assumption 8: Character Vocabulary Size
+
+- **What is missing**: The paper states a character vocabulary of "~256 for raw characters/bytes" (§4, l. 13) but never lists the character set or an exact size.
+- **Where we searched**: `resonator_body.tex` §4, `resonator_results.tex` §5.2.
+- **Why it matters**: Vocabulary size changes the embedding and output-head parameter counts and, more importantly, changes the task. A 284-symbol vocabulary is a strictly harder next-character prediction problem than a 256-symbol one, and perplexity is not comparable across the two.
+- **Our Assumption**: We build the vocabulary directly from `wiki.train.raw`, frequency-sorted with an `<unk>` slot at index 0. This yields **284** distinct characters, not ~256. We did not truncate or byte-fold down to 256, because doing so would require an unstated mapping choice.
+- **Consequence**: Our trained models are 6,053,648 (ResonatorLM) and 6,111,960 (Transformer) parameters rather than the 6,039,312 / 6,098,072 a 256-symbol vocabulary would give. This is one of the named candidate explanations for why our absolute perplexities do not match the paper's; see the Reproduction Protocol section of the README.
+
